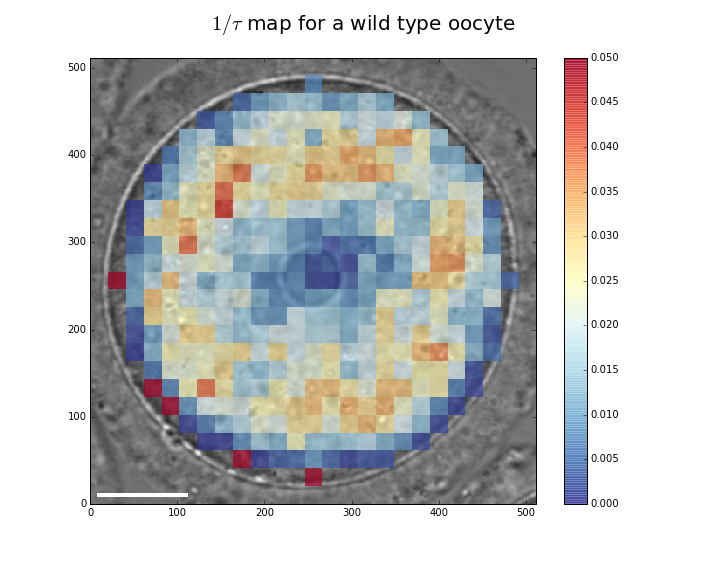
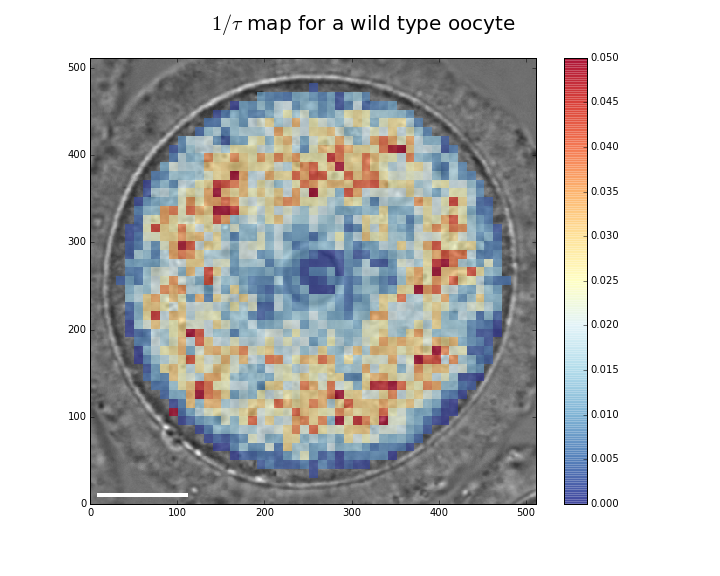
ending oocyte

Changed region(s): [[0.1528, 0.125, 0.7333, 0.8438]]

diff --git a/parts/part5.rst b/parts/part5.rst
@@ -167,13 +167,14 @@ then use the inverse of :math:`\tau` as an indicator of activity.
 
 Once we have define the activity of a region of the cytoplasm of the cell, we
 can repeat the measurement on different area of the cytoplasm, and we can
-reproduce a map of the activity in the cell as a function of the position ( :num:`Fig #fig-activity-map`.
+reproduce a map of the activity in the cell as a function of the position (
+:num:`Fig #fig-activity-map`.
 
 .. _fig-activity-map:
 .. figure:: figs/CellAct-WT.png
     :width: 80%
 
-    Activity for different region of  20 by 20 pixels of a wild type oocyte.
+    Activity for different region of  10 by 10 pixels of a wild type oocyte.
     Value of :math:`1/\tau` plotted as color square overlay on to of the
     analysed bright field image. Example for an of a wild type oocyte. Scale
     bar is 20 µm. We can see that the activity is near the nucleus is lower
@@ -183,9 +184,23 @@ The measure of the correlation characteristic decay time can also be done on a
 time sliding widows. This allows for the determination of activity of a
 particular area of the cytoplasm with time.
 
-    
+
+Conclusion
+**********
+.. 2
 
 
+In this part we developed a methods that allow to determine the cytoplasmic
+activity. Tis methods also allow to determine the variation of this cytoplasmic
+activity with space and time. This methods is the study of oocyte as it allows
+to probe timescale from the second to the hour which is in the order of the
+relevant timescale for oocyte maturation of a few hours. It is also
+complementary to techniques like micro rheology that have difficulties probing
+timescale beyond tens of seconds due to thermal drift and cell movements, but
+reach much shorter timescale.
 
-
+The use of this technique is currently under investigation at Collège de France
+by Marie-Hélène Verhlac and Maria Almonacid. It is used to measure the activity
+of actin network in oocyte and determine their effect on the meiosis of mouse
+oocyte.
 
